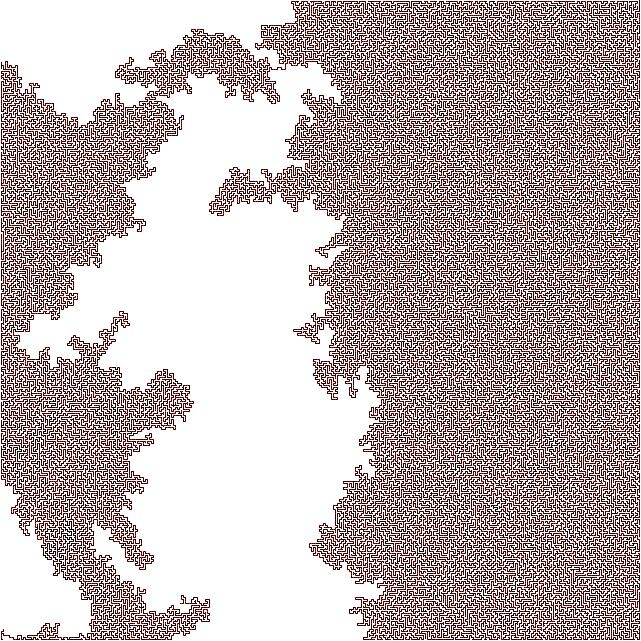
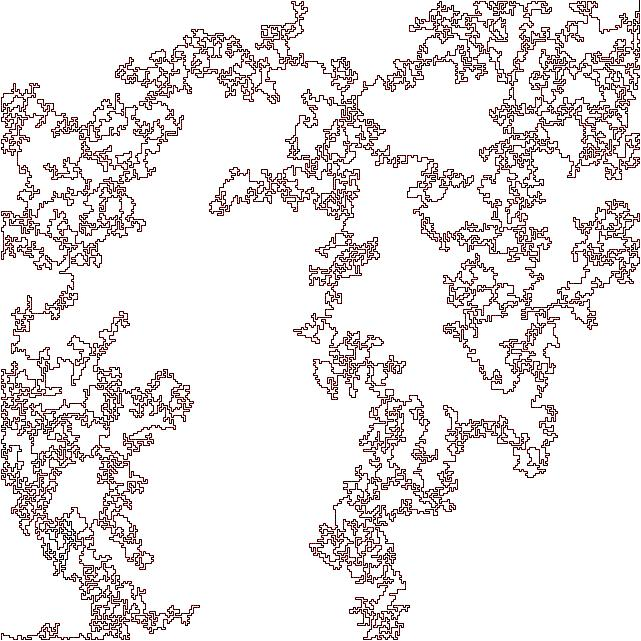
Solve challenge 24

diff --git a/Challenges/chall_24.py b/Challenges/chall_24.py
@@ -26,42 +26,43 @@ def main():
         # Find the entrance and exit coordinates
         for i in range(w):
             if maze.getpixel((i, 0)) == (0, 0, 0, 255):
-                start = (i, 0)
+                start = (i, 0)  # (630, 0)
                 print('Start: {}'.format(start))
             if maze.getpixel((i, h - 1)) == (0, 0, 0, 255):
-                end = (i, h - 1)
-                print('Exit: {}'.format(end))
+                end = (i, h - 1)  # (1, 640)
+                # print('Exit: {}'.format(end))
 
         # Breadth-first shortest path
-        shortest = {}
         directions = [(1, 0), (-1, 0), (0, 1), (0, -1)]  # (dw, dh)
-        path_queue = [start]
+        path_queue = [[start]]
         while path_queue:
-            # Get and remove oldest pixel in queue
-            last_pixel = path_queue.pop(0)
+            # Get and remove oldest path in queue
+            tmp_path = path_queue.pop(0)
+            # print('Testing path: {}'.format(tmp_path))
+            last_pixel = tmp_path[-1]
             if last_pixel == end:
+                shortest = tmp_path
+                print('Found shortest path')
                 break
             for d in directions:
                 next_pixel = (last_pixel[0] + d[0], last_pixel[1] + d[1])
-                if ((next_pixel not in shortest) and
-                    0 <= next_pixel[0] < w and 0 <= next_pixel[1] < h and
-                    maze.getpixel(next_pixel) != (255, 255, 255, 255)):
-                    # Pixel isn't already in the path and it's not white
-                    shortest[last_pixel] = next_pixel
-                    path_queue.append(next_pixel)
+                if ((next_pixel not in tmp_path) and
+                        (0 <= next_pixel[0] < w) and
+                        (0 <= next_pixel[1] < h) and
+                        (maze.getpixel(next_pixel) != (255, 255, 255, 255))):
+                    # Pixel not already in tmp_path/is in grid/not white
+                    # print('Adding next_pixel: {}'.format(next_pixel))
+                    new_path = tmp_path + [next_pixel]
+                    path_queue.append(new_path)
 
         r_data = []
-        # all_data = []
         img = Image.new('RGB', (w, h), color=(255, 255, 255))
 
-        pixel = start
-        while pixel != end:
+        for pixel in shortest:
             r_data.append(maze.getpixel(pixel)[0])
             img.putpixel(pixel, maze.getpixel(pixel))
-            # all_data.append(maze.getpixel(pixel))
-            pixel = shortest[pixel]
 
-        # img.save('./maze_chall_24/path.jpg')
+        img.save('./maze_chall_24/path_TMP.jpg')
 
         with open('./maze_chall_24/maze_tmp.zip', 'wb') as result:
             result.write(bytes(r_data[1::2]))
